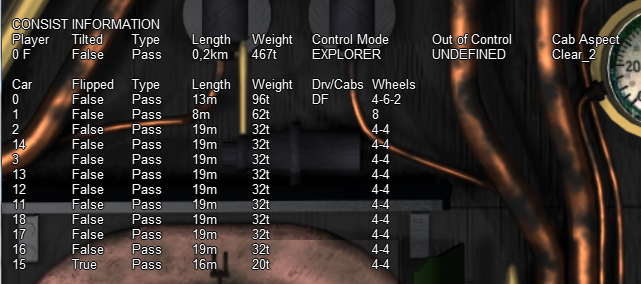
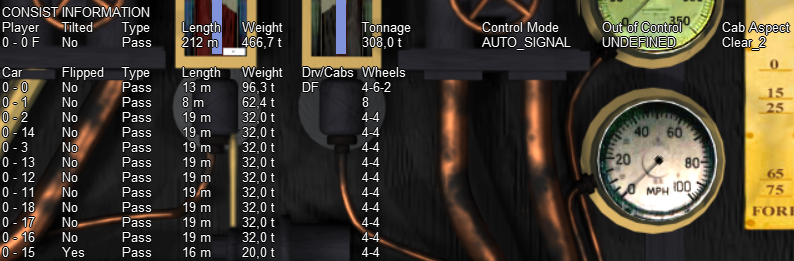
Update of OR manual.
git-svn-id: http://svn.uktrainsim.com/svn/openrails/trunk@4216 a9f3cfff-6c41-7446-b0ca-052bd761e6eb

diff --git a/Source/Documentation/Manual/conf.py b/Source/Documentation/Manual/conf.py
@@ -62,9 +62,9 @@ author = 'Open Rails'
 # built documents.
 #
 # The short X.Y version.
-version = '1.2 (draft)'
+version = '1.3 (draft)'
 # The full version, including alpha/beta/rc tags.
-release = 'x.4206 (draft)'
+release = 'x.4215 (draft)'
 
 # The language for content autogenerated by Sphinx. Refer to documentation
 # for a list of supported languages.

diff --git a/Source/Documentation/Manual/multiplayer.rst b/Source/Documentation/Manual/multiplayer.rst
@@ -10,29 +10,33 @@ Goal
 The Multi-Player mode implemented in this stage is intended for friends to play 
 OR together, each assuming the role of a train engineer operating a train. There 
 is a built-in way to compose and send text messages, but there is no built-in 
-tool for chatting, thus players are encouraged to use Ventrillo, Skype, MSN, 
-Yahoo, Teamspeak or other tools to communicate vocally. 
+tool for chatting, thus players are encouraged to use Skype,  
+Teamspeak or other tools to communicate vocally. 
 
-The current release utilizes a peer-to-peer mode, thus each player must start 
-and run OR on his computer. A special server was deployed so you may not need 
-to set up a server from your own computer.
+Each player must start and run OR on his computer. The network server may be either a 
+special :ref:`public server <multiplayer-public-server>` so you may not need to set 
+up a network server from your 
+own computer, or the dispatcher computer (see below).
 
 Getting Started
 ===============
 
-One player starts as the server, and then the others connect as clients. Each 
-player will choose and operate his own consist (and locomotive), but also can 
+One player starts as the dispatcher (from a network point of view his computer may be 
+network client or network server, as explained above), and then the others start as standard 
+players. They are always network clients and therefore they are also simply called clients. 
+Each player (dispatcher included) will choose and operate his own consist (and locomotive), 
+but also can 
 jump to watch others' consists, or couple with others to work as lead and DPU 
-through a tough route, or even act as a dispatcher to control signals and 
+through a tough route, or even act as a dispatching aid to control signals and 
 switches manually.
 
 Requirements
 ============
 
-The server can start an activity or choose to explore.  Clients MUST choose to 
+The dispatcher can start an activity or choose to explore.  Clients MUST choose to 
 explore (or a simple activity with timetable but no AI trains).
 
-The client must select the same route played by the server.
+The client must select the same route played by the dispatcher.
 
 It is not required for everyone to have the same set of paths, rolling stocks 
 and consists. 
@@ -63,10 +67,13 @@ The forum is free to join and post: http://www.tsimserver.com/forums
 Starting a Multi-Player Session
 ===============================
 
-Starting as Server
-------------------
+Starting as Dispatcher
+----------------------
 
 .. image:: images/start-activity.png
+
+To start as Dispatcher you must be the first player to enter the multiplayer 
+session.
 
 On the OR main menu you select in a standard way as described in the 
 :ref:`Getting started <start>` chapter on the left side Route, activity or 
@@ -74,18 +81,25 @@ explore route, and in case of explore route you select as usual locomotive,
 consist, path, time, season and weather.
 
 On the lower right side you enter your User Name and the host and port 
-address. If you want to run as standalone server, or if you want to have more 
-than instance of OR running in MP mode on the same computer, you must set 
+address. If you want to run as standalone local server, or if you want to have more 
+than one instance of OR running in MP mode on the same computer, you must set 
 *Host/port* to ``127.0.0.1:30000``. 30000 is the default port, but you can 
 change to any integer between 10000 and 65536.
 
 If you want to run in a local area network usually valid host addresses are 
 ``192.168.1.2`` or ``192.168.1.1``.
 
-After having inserted the *Username* and *Host/port* data you click on 
-*Server*. 
+If you use the special :ref:`public server <multiplayer-public-server>` you 
+need to check the *Client*"* radio button. If instead your computer acts as 
+server, you check the *Server*"* radio button. 
 
-When server starts, Windows Firewall may ask if you want to allow OR access 
+After having inserted the *Username* and *Host/port* data you click on 
+*Start MP*. 
+
+Note that when using the special :ref:`public server <multiplayer-public-server>` ,
+
+
+After start, Windows Firewall may ask if you want to allow OR access 
 to the Internet. If so, click *Allow*.  If you use other firewall software, you 
 may need to configure it to allow OpenRails to access the Internet.
 
@@ -100,32 +114,33 @@ On the left side of the main menu you must enter only route, path and
 consist. The other parameters are received from the server.
 
 On the right side you enter your username, IP address and port of the server, 
-and click on *Client*. 
+you check the *Client* radio button and the you click on  *Start MP*. 
 
 In-Game Controls
 ================
 
-Once the server and clients have started and connected, to display 
+Once the dispatcher and clients have started and connected, to display 
 MultiPlayer status you must press F5 to display the basic HUD; at the bottom 
 of it you will see the information. You can watch how many players and trains 
 are present and how far away you are from others. You can also look if you 
-are acting as dispatcher (the server always is the dispatcher) or as client.
+are acting as dispatcher or as client.
 
 .. image:: images/multiplayer-hud-basic.png
 
-A player joined will have the same weather, time and season as the server, no 
+A player joined will have the same weather, time and season as the dispatcher, no 
 matter what are the original choices.
 
 The player train may join the world and find that it is inside another 
 train.  Don't panic, you have two minutes to move your train out before OR 
 thinks you want to couple with that train.
 
-AI trains are added by the server and broadcast to all players. As a client, 
+AI trains are added by the dispatcher computer (if it runs in activity mode) 
+and broadcast to all players. As a client, 
 do not start an activity with AI trains; moreover it is recommended that you 
 start in Explore mode on the client.
 
 You can jump to see other trains in sequence by pressing ``<Alt+9>``. 
-OpenRails will cycle through all trains active on the server with each key 
+OpenRails will cycle through all active trains with each key 
 press. If you are running an activity OpenRails will include in the cycle any 
 static consists that are used in the activity. As some trains may be far away, 
 OpenRails may need a few seconds to load the surrounding scenery.  Thus you 
@@ -137,8 +152,9 @@ Internet routings vary moment to moment there may be some lag, and trains may
 jump a bit as OpenRails tries to update the locations with information 
 received.
 
-You can couple/decouple as usual. As coupling is controlled in the server, a 
-player needs to drive slowly so that the server will have accurate 
+You can couple/decouple as usual. As coupling is controlled in the dispatcher 
+computer, a 
+player needs to drive slowly so that the dispatcher computer  will have accurate 
 information of train positions. If two player trains couple together, one of 
 them will become a helper, and a message will be shown on the left indicating 
 that the player is in Helper mode.  A player in Helper mode cannot control 
@@ -213,7 +229,7 @@ selected.
 Summary of Multi-Player Procedures
 ==================================
 
-1.  Server can start an activity or Explore. Clients must choose to Explore 
+1.  Dispatcher can start an activity or Explore. Clients must choose to Explore 
     the route or start with an activity without AI trains.
 2.  Missing rolling stock in other players' consists will be automatically 
     replaced by existing cars from local directory. This can lead to awkward consists.
@@ -222,7 +238,7 @@ Summary of Multi-Player Procedures
 4.  Use ``<Alt+9>`` to see other trains, 9 to see your own train, 
     ``<Ctrl+9>`` to view/hide the dispatcher window.  Use the mouse wheel 
     to zoom and left mouse button to pan the dispatcher window.
-5.  We can send and read messages from the dispatcher window
+5.  You can send and read messages from the dispatcher window
 6.  Use ``<Ctrl+Alt+F11>`` to see the path trains will follow, and 
     ``<F7>`` to see train names
 7.  Move trains slowly when trying to couple.
@@ -239,7 +255,7 @@ Possible Problems
 =================
 
 - A server may not be able to listen on the port specified. Restart the 
-  server and choose another port.
+  dispatcher and the clients and choose another port.
 - If you cannot connect to the server, verify you have the correct IP 
   address and port number, and that the server has the port opened.
 - If other players have rolling stock you do not have, that train will 
@@ -250,11 +266,13 @@ Possible Problems
   apart within two minutes and it will be fine.
 - If your train is moving too quickly when trying to couple, the process may 
   not work and weird things can happen.
-- As the server has absolute control, clients may notice the switch just 
-  changed will be changed back a few seconds later if the server controlled 
+- As the dispatcher has absolute control, clients may notice the switch just 
+  changed will be changed back a few seconds later if the dispatcher controlled 
   train wants to pass it.
 - Coupling/uncoupling the same set of trains may end up with weird things.
 - ``<Ctrl+E>`` locomotive switch may have train cars flipped.
+
+.. _multiplayer-public-server:
 
 Using the Public Server
 =======================
@@ -286,6 +304,36 @@ Additional info on using the Public Server
   server for about two minutes. If the client re-enters the game within such 
   time frame, it will re-enter the game in the position where he was at the 
   moment of the crash.
+
+Save and resume
+===============
+
+Networked games may be prone to crashes, and it is not nice if you get a crash in 
+the middle of a long-lasting game and you have to restart the game from its 
+beginning. 
+
+Therefore also for multiplayer mode the *Save and resume* feature is available: it is 
+advisable that the dispatcher regularly saves the session by pressing F2 during game.
+
+If a crash occurs, the procedure to resume game is described here below.
+When the dispatcher wants to resume the session from the last save, all players must 
+be off the game.
+
+The dispatcher must have in his main menu path and consist as in the saved session. 
+He clicks the *Resume MP* button and in the resume window he selects the session he wants 
+and clicks on the *Resume* bùtton therein.
+When he is again in the game, he will see in the dispatcher window that the other player 
+trains are shown in grey on the route. Now the other players have 10 minutes to re-enter 
+the game where they were when the game was saved. They too must have in their main menu 
+their original path and the consist they had in the moment the game was saved. They must 
+select *Start MP* to re-enter the game. They will re-enter the game in the place where 
+they were when the game was saved. If however the consist at the moment of the game save is different 
+from the one selected when re-entering the game. or if the train proceeded less than 1 Km from 
+game start, the player will re-enter the game at the beginning of the path.
+
+As there are many possible cases, it may be possible that some of them are not covered.
+
+
 
 Setting up a Server from Your Own Computer
 ==========================================

diff --git a/Source/Documentation/Manual/driving.rst b/Source/Documentation/Manual/driving.rst
@@ -209,7 +209,8 @@ Electric Locomotives -- Additional information
 ----------------------------------------------
 
 For electric locomotives information about the pantograph state is also 
-shown and whether the locomotive has power (at least one pantograph raised) 
+shown, as well as info about the circuit breaker state and whether the 
+locomotive has power (at least one pantograph raised and circuit breaker closed) 
 or not.
 
 .. image:: images/driving-hud-electric.png
@@ -1505,11 +1506,14 @@ You can turn off any extended HUD, while continuing to show the basic HUD,
 by pressing ``<Alt+F5>``. Pressing ``<Alt+F5>`` again returns the 
 display of the currently active extended HUD.
 
+In the extended HUDs the trainsets (locos and cars) are identified by the 
+trainset UiD as defined in the consist file, preceded by a train identification.
+
 Extended HUD for Consist Information
 ------------------------------------
 
 This page shows in the first line data about the whole train. Under 
-``Player`` you will find the train number as assigned by OR followed by an 
+``Player`` you will find the player locomotive UiD followed by an 
 ``F`` if the forward cab is selected, and an ``R`` if the rear cab is 
 selected.
 
@@ -1517,7 +1521,7 @@ selected.
     :align: center
     :scale: 80%
 
-``Tilted`` is true in case the consist name ends with ``tilted`` (e.g. 
+``Tilted`` is set at YES in case the consist name ends with ``tilted`` (e.g. 
 ``ETR460_tilted.con``), in which case it means that it is a tilting train.
 
 ``Control mode`` shows the actual control mode. Read more about this here.
@@ -1558,9 +1562,9 @@ Extended HUD for Brake Information
 .. image:: images/physics-hud-brake-connecting.png
 
 This extended HUD display includes all the information of the basic HUD 
-plus Brake status information. Information is shown for all cars. The 
-first number shows the car UiD in the train, as found in the consist file 
-or the activity file; the following alphanumeric string shows the brake 
+plus Brake status information. In the first part specific information for 
+locomotives is shown, while in the second one general information is shown for 
+all cars. After the car UiD the following alphanumeric string shows the brake 
 system (``1P``: single-pipe system, ``V``: vacuum etc.) and the current 
 state of the air brakes on the unit. More information on this display 
 can be found in :ref:`Open Rails Braking <physics-braking>` and 
@@ -1586,7 +1590,7 @@ acting upon the locos/cars in the train.
 
 The columns are as follows:
 
-**Car**  - the position of the car in the train.
+**Car**  - the UiD of the car as defined in the car consist file.
 
 **Total**  - the total force acting on the car. This is the sum of the other 
 forces after the signs are properly adjusted.

diff --git a/Source/Documentation/Manual/cabs.rst b/Source/Documentation/Manual/cabs.rst
@@ -143,12 +143,33 @@ Here is an example of a cab radio control block within the .cvf file::
 
 			TwoState (
             Type ( CAB_RADIO TWO_STATE )
-			Position ( 150 425 30 21 )
-			Graphic ( Horn.ace )
-			NumFrames ( 2 2 1 )
-			Style ( ONOFF )
-			MouseControl ( 1 )
+			      Position ( 150 425 30 21 )
+			      Graphic ( Horn.ace )
+			      NumFrames ( 2 2 1 )
+			      Style ( ONOFF )
+			      MouseControl ( 1 )
             )
+
+
+Cab light
+---------
+
+OR supports the cab light cabview control.
+Pressing key L switches on and off the cab light under the same conditions 
+applicable to MSTS.
+Switching on and off the cab light enables discrete sound trigger 161, as 
+explained :ref:`here <sound-discrete>`.
+Here is an example of a cab light control block within the .cvf file::
+
+			TwoState (
+            Type ( ORTS_CABLIGHT TWO_STATE )
+			      Position ( 120 425 30 21 )
+			      Graphic ( Horn.ace )
+			      NumFrames ( 2 2 1 )
+			      Style ( ONOFF )
+			      MouseControl ( 1 )
+            )
+
 
 
 High-resolution Cab Backgrounds and Controls
